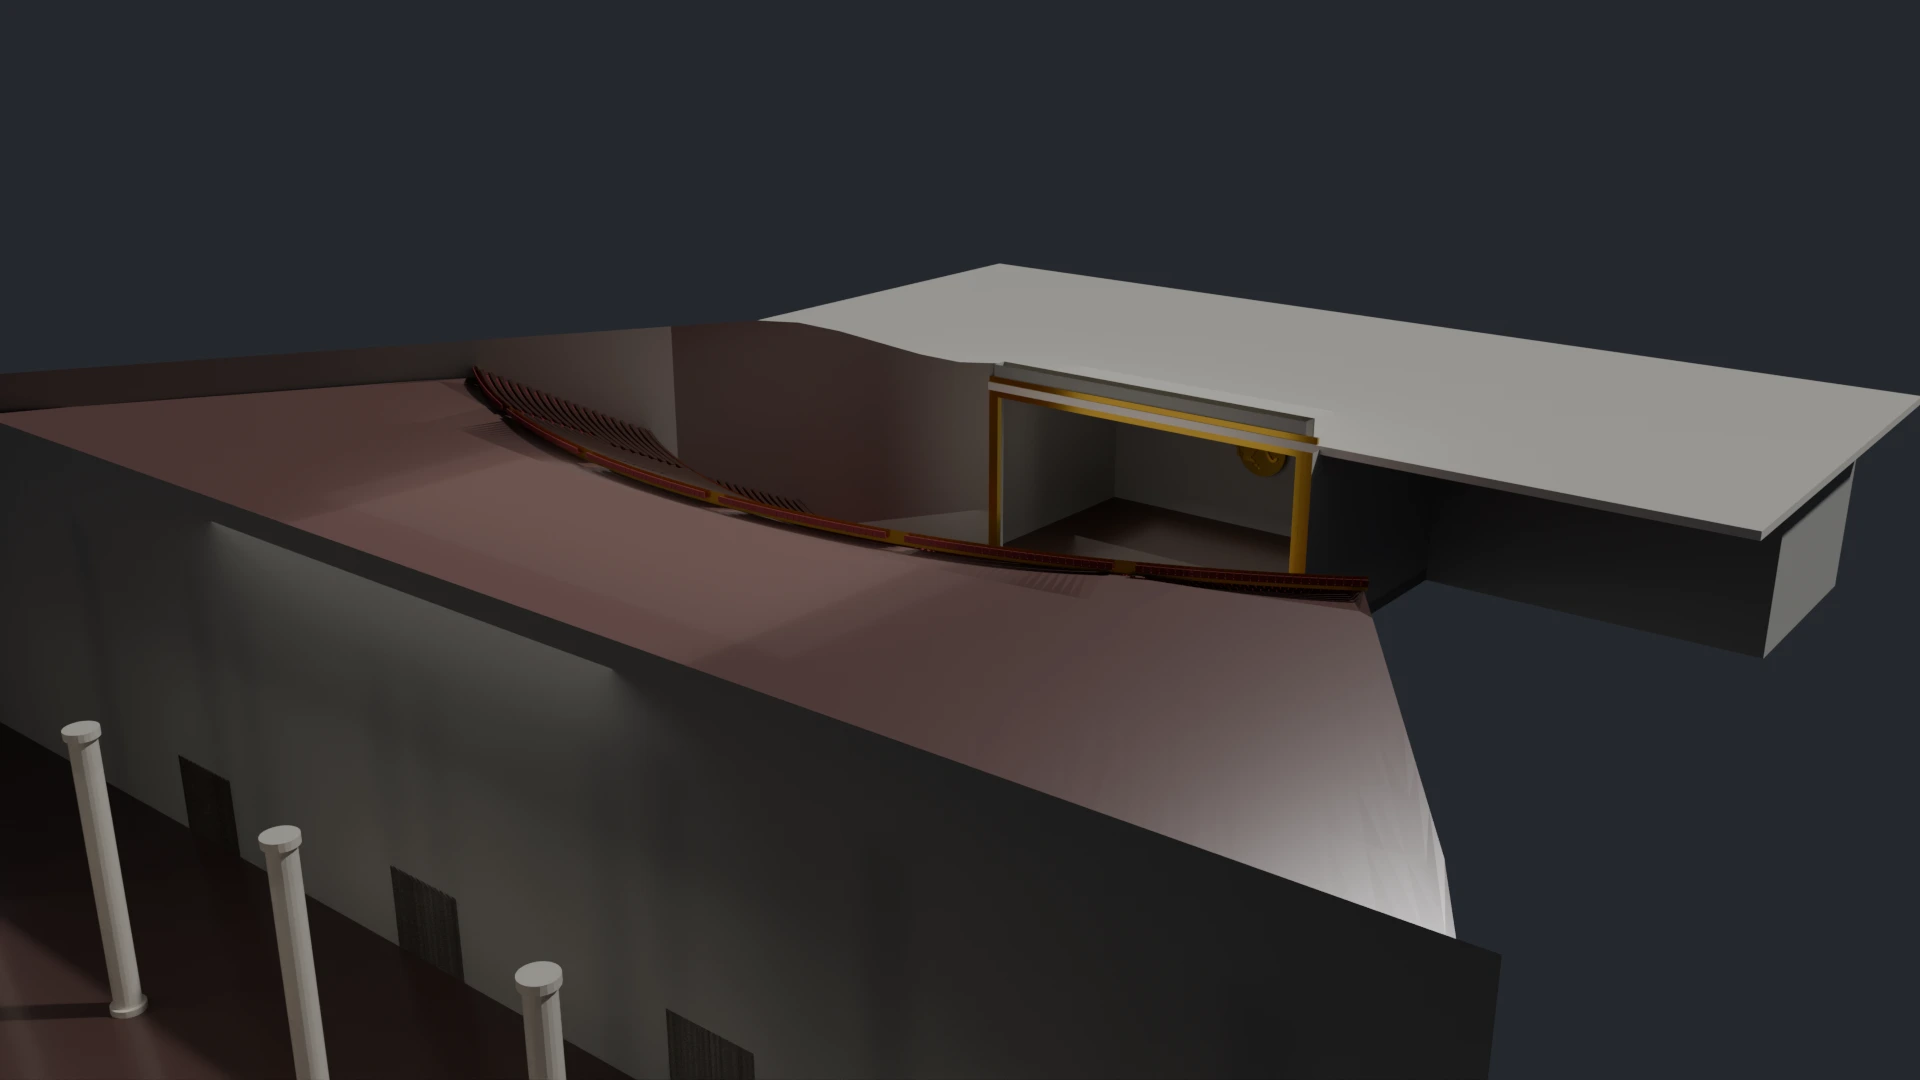
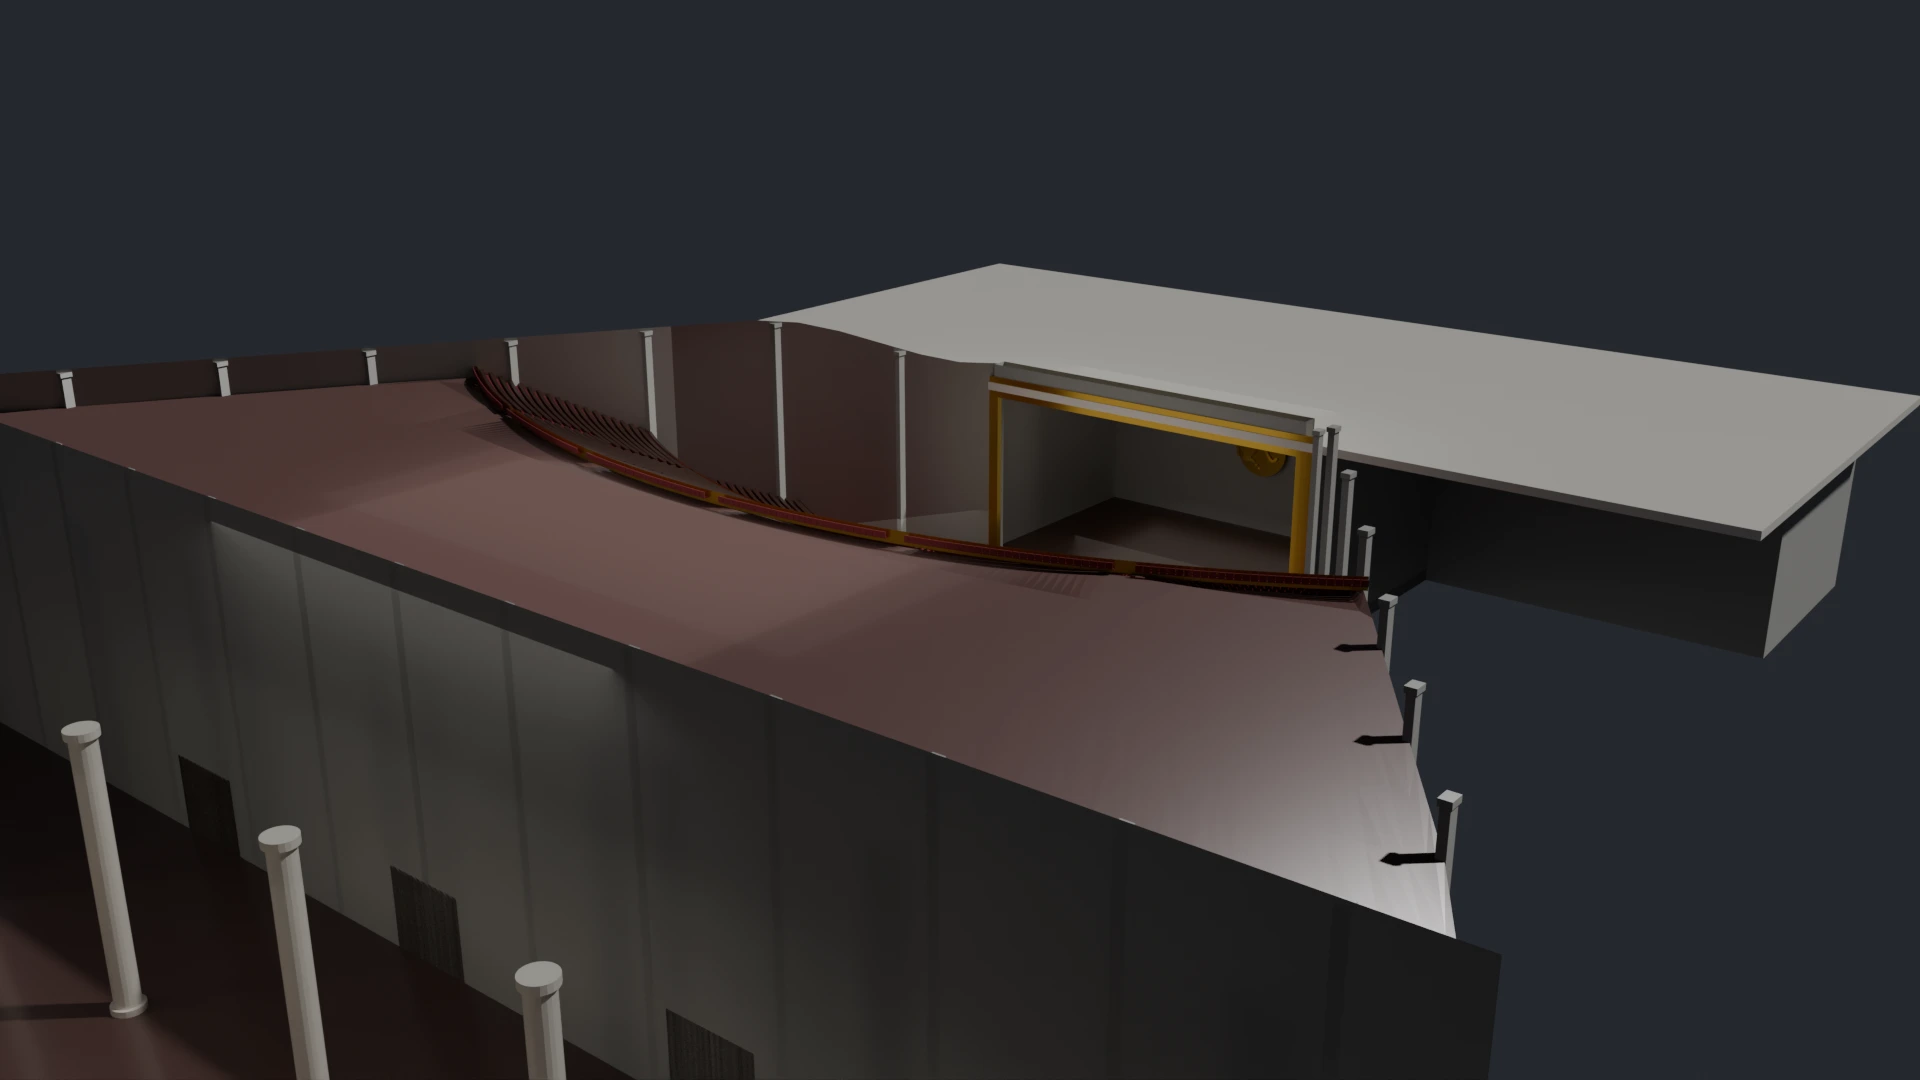
feat(grandhall): 墙面分格（壁柱＋墙裙），精模清单九项齐备

diff --git a/tools/grandhall/build_hall.py b/tools/grandhall/build_hall.py
@@ -394,6 +394,19 @@ def build_shell():
             G.box(px + 0.55, AX + sgn * (pw - 0.35), 0, 0.70, 0.70, h)
             G.box(px + 0.55, AX + sgn * (pw - 0.35), 0, 0.90, 0.90, 0.55)
         G.box(px + 0.55, AX, h - 0.75, 0.70, 2 * pw, 0.75)
+        # 墙面分格：侧墙与后墙的汉白玉壁柱（12 m 一柱）＋ 1.2 m 墙裙
+        W2 = Mesh("墙面分格", MAT["wall"], "shell")
+        for x in range(-474, -392, 12):
+            for sgn in (1, -1):
+                y = AX + sgn * hall_half_width(x)
+                hh = D.dome_edge_z(x)
+                W2.box(x, y, 0.0, 0.9, 0.62, hh - 0.3)
+                W2.box(x, y, hh - 0.75, 1.15, 0.85, 0.45)      # 柱头
+                W2.box(x, y - sgn * 0.20, 0.0, 1.15, 0.45, 1.25)  # 墙裙加厚
+        hw2 = D.HALL["w_rear"] / 2
+        for y in range(int(AX - hw2) + 8, int(AX + hw2), 12):
+            W2.box(HX1 - 0.31, y, 0.0, 0.62, 0.9, D.dome_edge_z(HX1) - 0.3)
+        emit(W2)
         emit(G)
 
 

diff --git a/CHANGELOG.md b/CHANGELOG.md
@@ -15,6 +15,8 @@
 
 ### 变更
 
+- **2026-11-23 精模完成：墙面分格补齐**：侧墙每 12 m 一道汉白玉壁柱（柱身＋柱头＋1.25 m 墙裙加厚），后墙同样按 12 m 分柱；至此精模清单的九项细部全部到位。60 物体 / 65.15 万三角面 / glb(Draco) 7.08 MB，九图重出，README 进度表 ③ 改为「完成，待作者验收」。
+
 - **2026-11-23 国徽浮雕按比例重做**：按《国家象征物（2026）》的三项硬比例重画——城墙宽 **0.42D**（城台 13 段分砌＋四垛口＋瓮城顶线）、金蟠龙总高 **0.50D**（30 段 S 形盘绕＋龙首）、齿轮外径 **0.26D**（轮心＋8 齿），另加左右各五粒稻穗（自下向上外弧）与「金瓯永固」绶带；全部在 0.38–0.12 m 的独立出挑层上，避免与底盘共面。九图重出，65.08 万三角面。
 
 - **2026-11-23 精模收口（第一版）**：README 进度表把 ③ 精模改为「第一版完成，待补国徽细化／墙面分格」；当前精模含贴图化材质（6 套可平铺 PNG + 盒式投影 UV）、国徽浮雕（立起、带城墙/稻穗/齿轮/蟠龙/绶带）、72 道光芒、三环灯槽、500 盏满天星、40 组宝相花灯、铜门、台口金线脚与门套；59 物体 / 65.05 万三角面 / glb(Draco) 7.07 MB。

diff --git a/tools/grandhall/README.md b/tools/grandhall/README.md
@@ -13,7 +13,7 @@
 | --- | --- | --- |
 | ① | 草稿：平面＋纵剖＋横剖＋座席对账（2D） | **完成 2026-11-23，待作者过目** |
 | ② | 白模：Blender 体量（壳、三层座席、穹顶、前厅、后厅） | **完成第一版，待验收** |
-| ③ | 精模（贴图化材质、国徽浮雕、72 道光芒、三环灯槽、满天星、宝相花灯、铜门、台口门套） | **第一版完成（2026-11-23），待补：国徽细化／墙面分格** |
+| ③ | 精模（贴图化材质、国徽浮雕、72 道光芒、三环灯槽、满天星、宝相花灯、铜门、台口门套、墙面分格） | **完成（2026-11-23），待作者验收** |
 
 ## 一、几何口径
 
